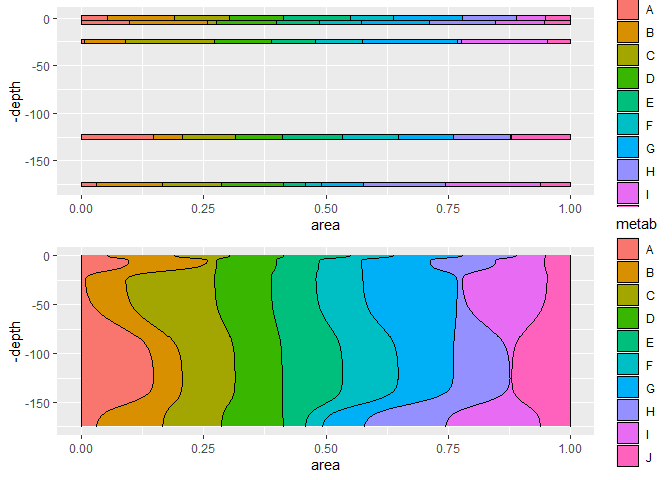
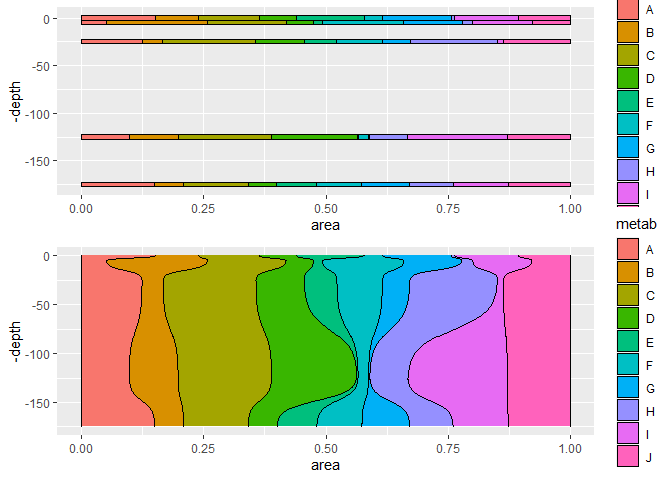
Adding Heal 2020 remake demo

diff --git a/README.md b/README.md
@@ -73,4 +73,120 @@ ggbarribbon +
 
 ![](README_files/figure-gfm/unnamed-chunk-5-1.png)<!-- -->
 
-README last compiled on 2021-11-13.
+As another example, below I’ve recreated the plots of Figure 4 from
+[Heal et al.,
+(2020)](https://journals.asm.org/doi/full/10.1128/mSystems.01334-20)
+
+``` r
+options(readr.read_lazy = FALSE, readr.show_col_types = FALSE)
+# Override normal read.csv to access correct standards list
+old_stan_csv_url <- "https://raw.githubusercontent.com/IngallsLabUW/Ingalls_Standards/3e463eaa2cfd6d58a8b338a99b4d965f9a4d492e/Ingalls_Lab_Standards_NEW.csv"
+read.csv <- function(text, header){
+  utils::read.csv(old_stan_csv_url, header = TRUE)
+}
+
+# Download necessary files and mimic project workspace
+base_url <- "https://raw.githubusercontent.com/kheal/Gradients1_SemiTargeted3"
+sha <- "234f1753867385a978063f96cc6d9c0c67c248af"
+
+dir.create("Intermediates")
+longdat_file <- "Intermediates/Quantified_LongDat_Enviro.csv"
+download.file(paste(base_url, sha, longdat_file, sep = "/"), destfile = longdat_file)
+dir.create("MetaData")
+metadat_file <- "MetaData/SampInfo_wMetaData_withUTC.csv"
+download.file(paste(base_url, sha, metadat_file, sep = "/"), destfile = metadat_file)
+
+dir.create("Figures/Manuscript_figures", recursive = TRUE)
+
+source("https://raw.githubusercontent.com/kheal/Gradients1_SemiTargeted3/master/Figures/Code/BarPlots_molPerCent_C.R")
+
+b_c_d.big
+```
+
+![](README_files/figure-gfm/unnamed-chunk-6-1.png)<!-- -->
+
+``` r
+unlink("Intermediates", recursive = TRUE)
+unlink("MetaData", recursive = TRUE)
+unlink("Figures", recursive = TRUE)
+```
+
+Instead, we can now use `geom_bar_ribbon` to interpolate smoothly
+between the discrete data points. All that I’ve done with the code below
+is to copy the original code directly and replace calls to `geom_bar`
+with calls to `geom_bar_ribbon`. I then coerced the x-values out of
+factor form because they can now be plotted as continuous variables. I
+then also added the new `interp_res` argument to the first call because
+its default is a single unit value (works great for depth profiles, not
+for latitude).
+
+``` r
+AllSmps_long_Summary_Tran <- AllSmps_long_Summary_withOthers %>%
+  filter(Cruise == "KOK1606") %>% 
+  # Line below is new
+  mutate(Latitude=as.numeric(levels(Latitude))[Latitude])
+
+b.big <- ggplot(AllSmps_long_Summary_Tran, aes(x = Latitude, y = molFractionC, fill = MF_Frac))+
+  # Line below is new
+  geom_bar_ribbon(stat = "identity", color = "black", size = 0.2, interp_res = 10)+
+  scale_y_continuous(expand = c(0, 0), limits = c(0,1))+
+  scale_fill_manual(values = as.character(unique(AllSmps_long_Summary_Tran$Colors)),
+                    guide = guide_legend(nrow=5, keyheight = 1, keywidth = 1 ))+
+  labs(y= "mole fraction C")+
+  theme(legend.title = element_blank(),
+        legend.text = element_text(size = 6),
+        legend.position="bottom",
+        axis.title = element_text(size = 9),
+        axis.text = element_text(size = 8))+
+  coord_flip() 
+
+#Plotting up the North Depth Profile -----
+AllSmps_long_Summary_nDP <- AllSmps_long_Summary_withOthers %>%
+  filter(Cruise ==  "MGL1704") %>%
+  unique()
+
+c.big <- ggplot(AllSmps_long_Summary_nDP, aes(x = as.numeric(Depth), y = molFractionC, fill = MF_Frac))+
+  scale_x_reverse(breaks = rev(unique(as.numeric(AllSmps_long_Summary_nDP$Depth)))) +
+  scale_y_continuous(expand = c(0, 0), 
+                     limits = c(0,1))+
+  geom_bar_ribbon(stat = "identity", color = "black", width = 15, size = 0.2) +
+  scale_fill_manual(values = as.character(unique(AllSmps_long_Summary_nDP$Colors)),
+                    guide = guide_legend(nrow=5,keyheight = 0.8, keywidth = 0.8 ))+
+  labs(y= "mole fraction C", x = "Depth (m)")+
+  guides(fill=FALSE) +
+  theme(axis.title = element_text(size = 9),
+        axis.text = element_text(size = 8))+
+  coord_flip() 
+
+#Plotting up the South Depth Profile -----
+AllSmps_long_Summary_sDP <- AllSmps_long_Summary_withOthers %>%
+  filter(Cruise ==  "KM1513") %>%
+  unique()
+
+d.big <- ggplot(AllSmps_long_Summary_sDP, aes(x = as.numeric(Depth), y = molFractionC, fill = MF_Frac))+
+  scale_x_reverse(breaks = rev(unique(as.numeric(AllSmps_long_Summary_sDP$Depth)))) +
+  scale_y_continuous(expand = c(0, 0), limits = c(0,1))+
+  geom_bar_ribbon(stat = "identity", color = "black", width = 15, size = 0.2) +
+  scale_fill_manual(values = as.character(unique(AllSmps_long_Summary_Tran$Colors)),
+                    guide = guide_legend(nrow=5,keyheight = 0.8, keywidth = 0.8 ))+
+  labs(y= "mole fraction C", x = "Depth (m)")+
+  guides(fill=FALSE) +
+  theme(axis.title = element_text(size = 9),
+        axis.text = element_text(size = 8))+
+  coord_flip() 
+
+#Combine the plots 
+c_d2.big <- plot_grid(c.big, d.big, ncol = 1, labels = c('', ''), label_fontface = "bold")
+b_c_d.big <- plot_grid(b.big, c_d2.big, ncol = 2, labels = c('', ''), label_fontface = "bold")
+b_c_d.big
+```
+
+![](README_files/figure-gfm/unnamed-chunk-7-1.png)<!-- -->
+
+Interestingly, a few values are now shown to have hidden NAs (resulting
+in the white patches), but the plots as a whole behave similarly. One
+other note is that the plots arrange their fills from largest to
+smallest, left to right, rather than the ggplot2 default of right to
+left.
+
+README last compiled on 2021-11-15.
